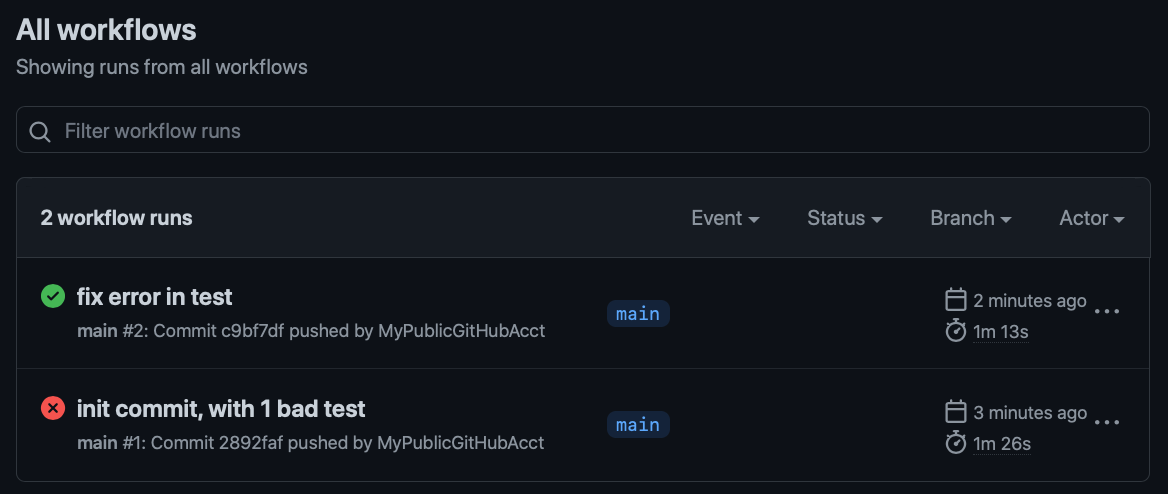
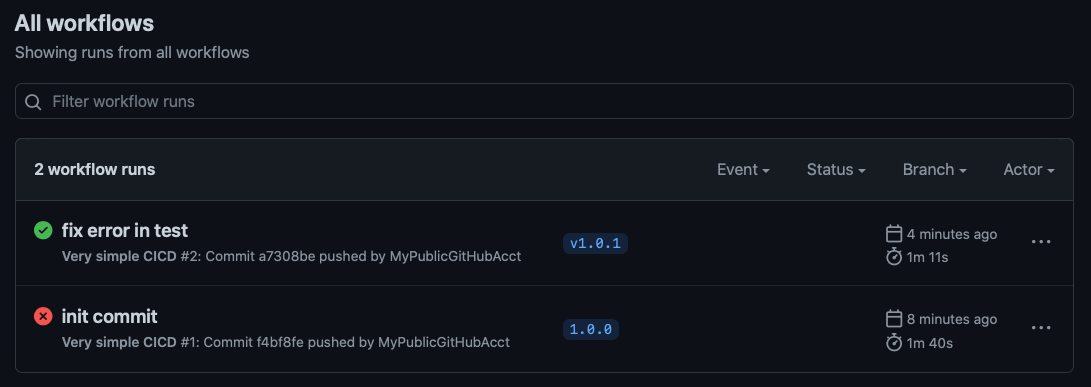
update README and pictures

diff --git a/README.md b/README.md
@@ -106,6 +106,12 @@ When updating the version of code, the following commands can be used in this or
 ```
 git add --all
 git commit -m "<text>"
+git push origin
+```
+
+The following commands can be used to initiate a release of the code that is already checked in.
+
+```
 git tag <tagname>
 git push origin --tags
 ```
